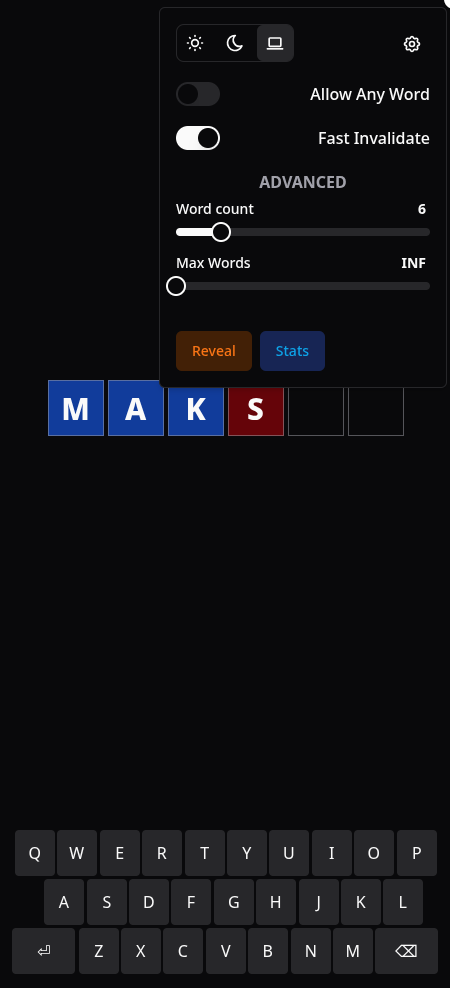
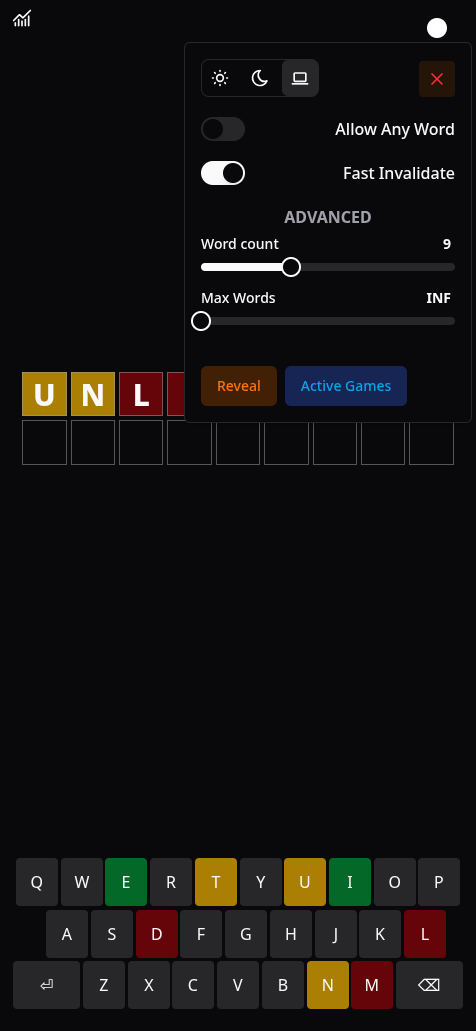
updated images

diff --git a/frontend/src/game/page_share.tsx b/frontend/src/game/page_share.tsx
@@ -122,8 +122,9 @@ export function ShareTrigger(props: {word: Accessor<string>, soft: SettingsSoftP
         <Button
           class='bg-success text-success-foreground hover:bg-success-foreground hover:text-success duration-200 active:scale-90 transition-all'
           onClick={() => {
+            const wlen = props.word().length
             if (idx === -1) {
-              idx = bsearch.eq(WORDS['w' + props.word().length], props.word().toLowerCase(), (a, b) => {
+              idx = bsearch.eq(WORDS['w' + wlen], props.word().toLowerCase(), (a, b) => {
                 if (a === b) return 0
                 return a < b? -1: 1
               })
@@ -134,7 +135,7 @@ export function ShareTrigger(props: {word: Accessor<string>, soft: SettingsSoftP
             }
 
             const btos = (b: boolean) => (b? 't': 'f')
-            const serialized = `${btos(soft.fastInvalidate)}${btos(hard.allowAny)},${idx.toString(36)},${props.word().length.toString(36)},${hard.maxTries.toString(16)}`
+            const serialized = `${btos(soft.fastInvalidate)}${btos(hard.allowAny)},${idx.toString(36)},${wlen.toString(36)},${hard.maxTries.toString(16)}`
             navigator.clipboard.writeText(`${window.location.origin}${window.location.pathname}?p=${Page.Share}&v=${serialized}`)
             setCopyButtonText('Copied!')
             setTimeout(() => setCopyButtonText('Copy'), 1000)

diff --git a/README.md b/README.md
@@ -18,13 +18,16 @@ A simple and lightweight Wordle game clone built using [Solid.js](https://www.so
 <table>
   <tr>
     <td>
-      <img src="./images/1.png" alt="Home Page image">
+      <img src="./images/1.png" alt="Home Page">
     </td>
     <td>
-      <img src="./images/2.png" alt="Home Page With Settings Image">
+      <img src="./images/2.png" alt="Home Page With Settings">
     </td>
     <td>
-      <img src="./images/3.png" alt="Game Stats Page image">
+      <img src="./images/3.png" alt="Game Stats Page">
+    </td>
+    <td>
+      <img src="./images/4.png" alt="Sharing Current Game">
     </td>
   </tr>
 </table>
